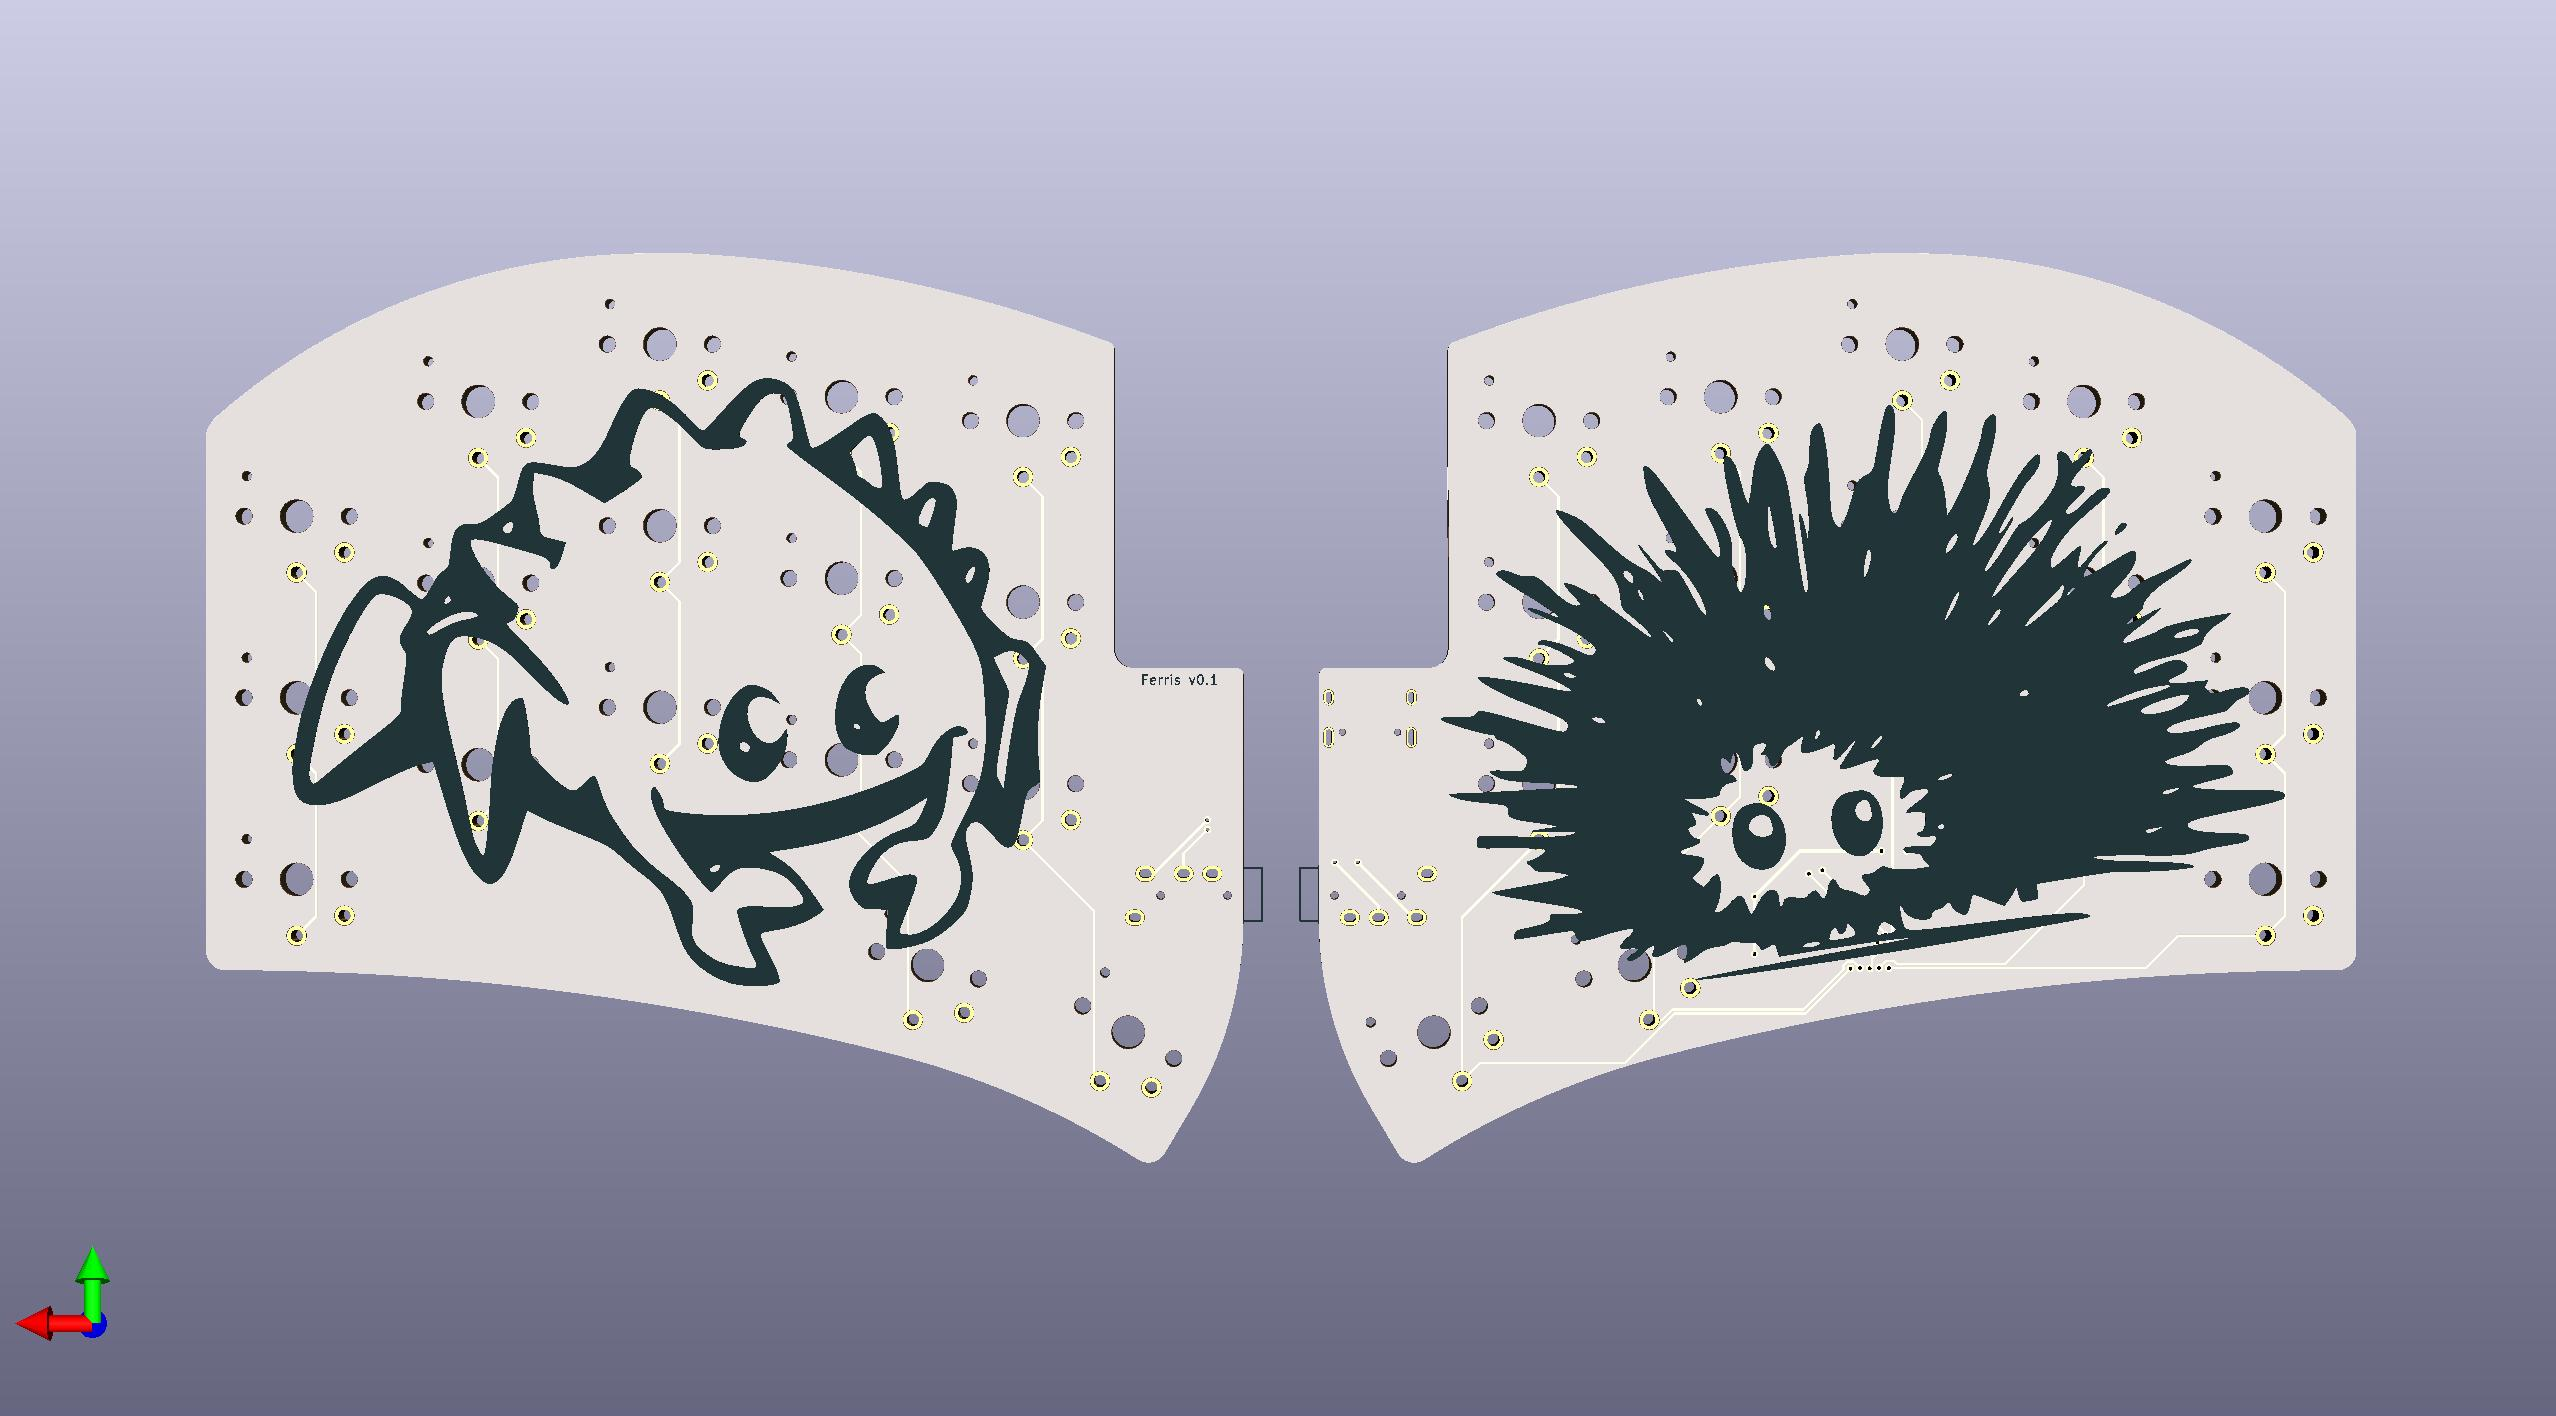
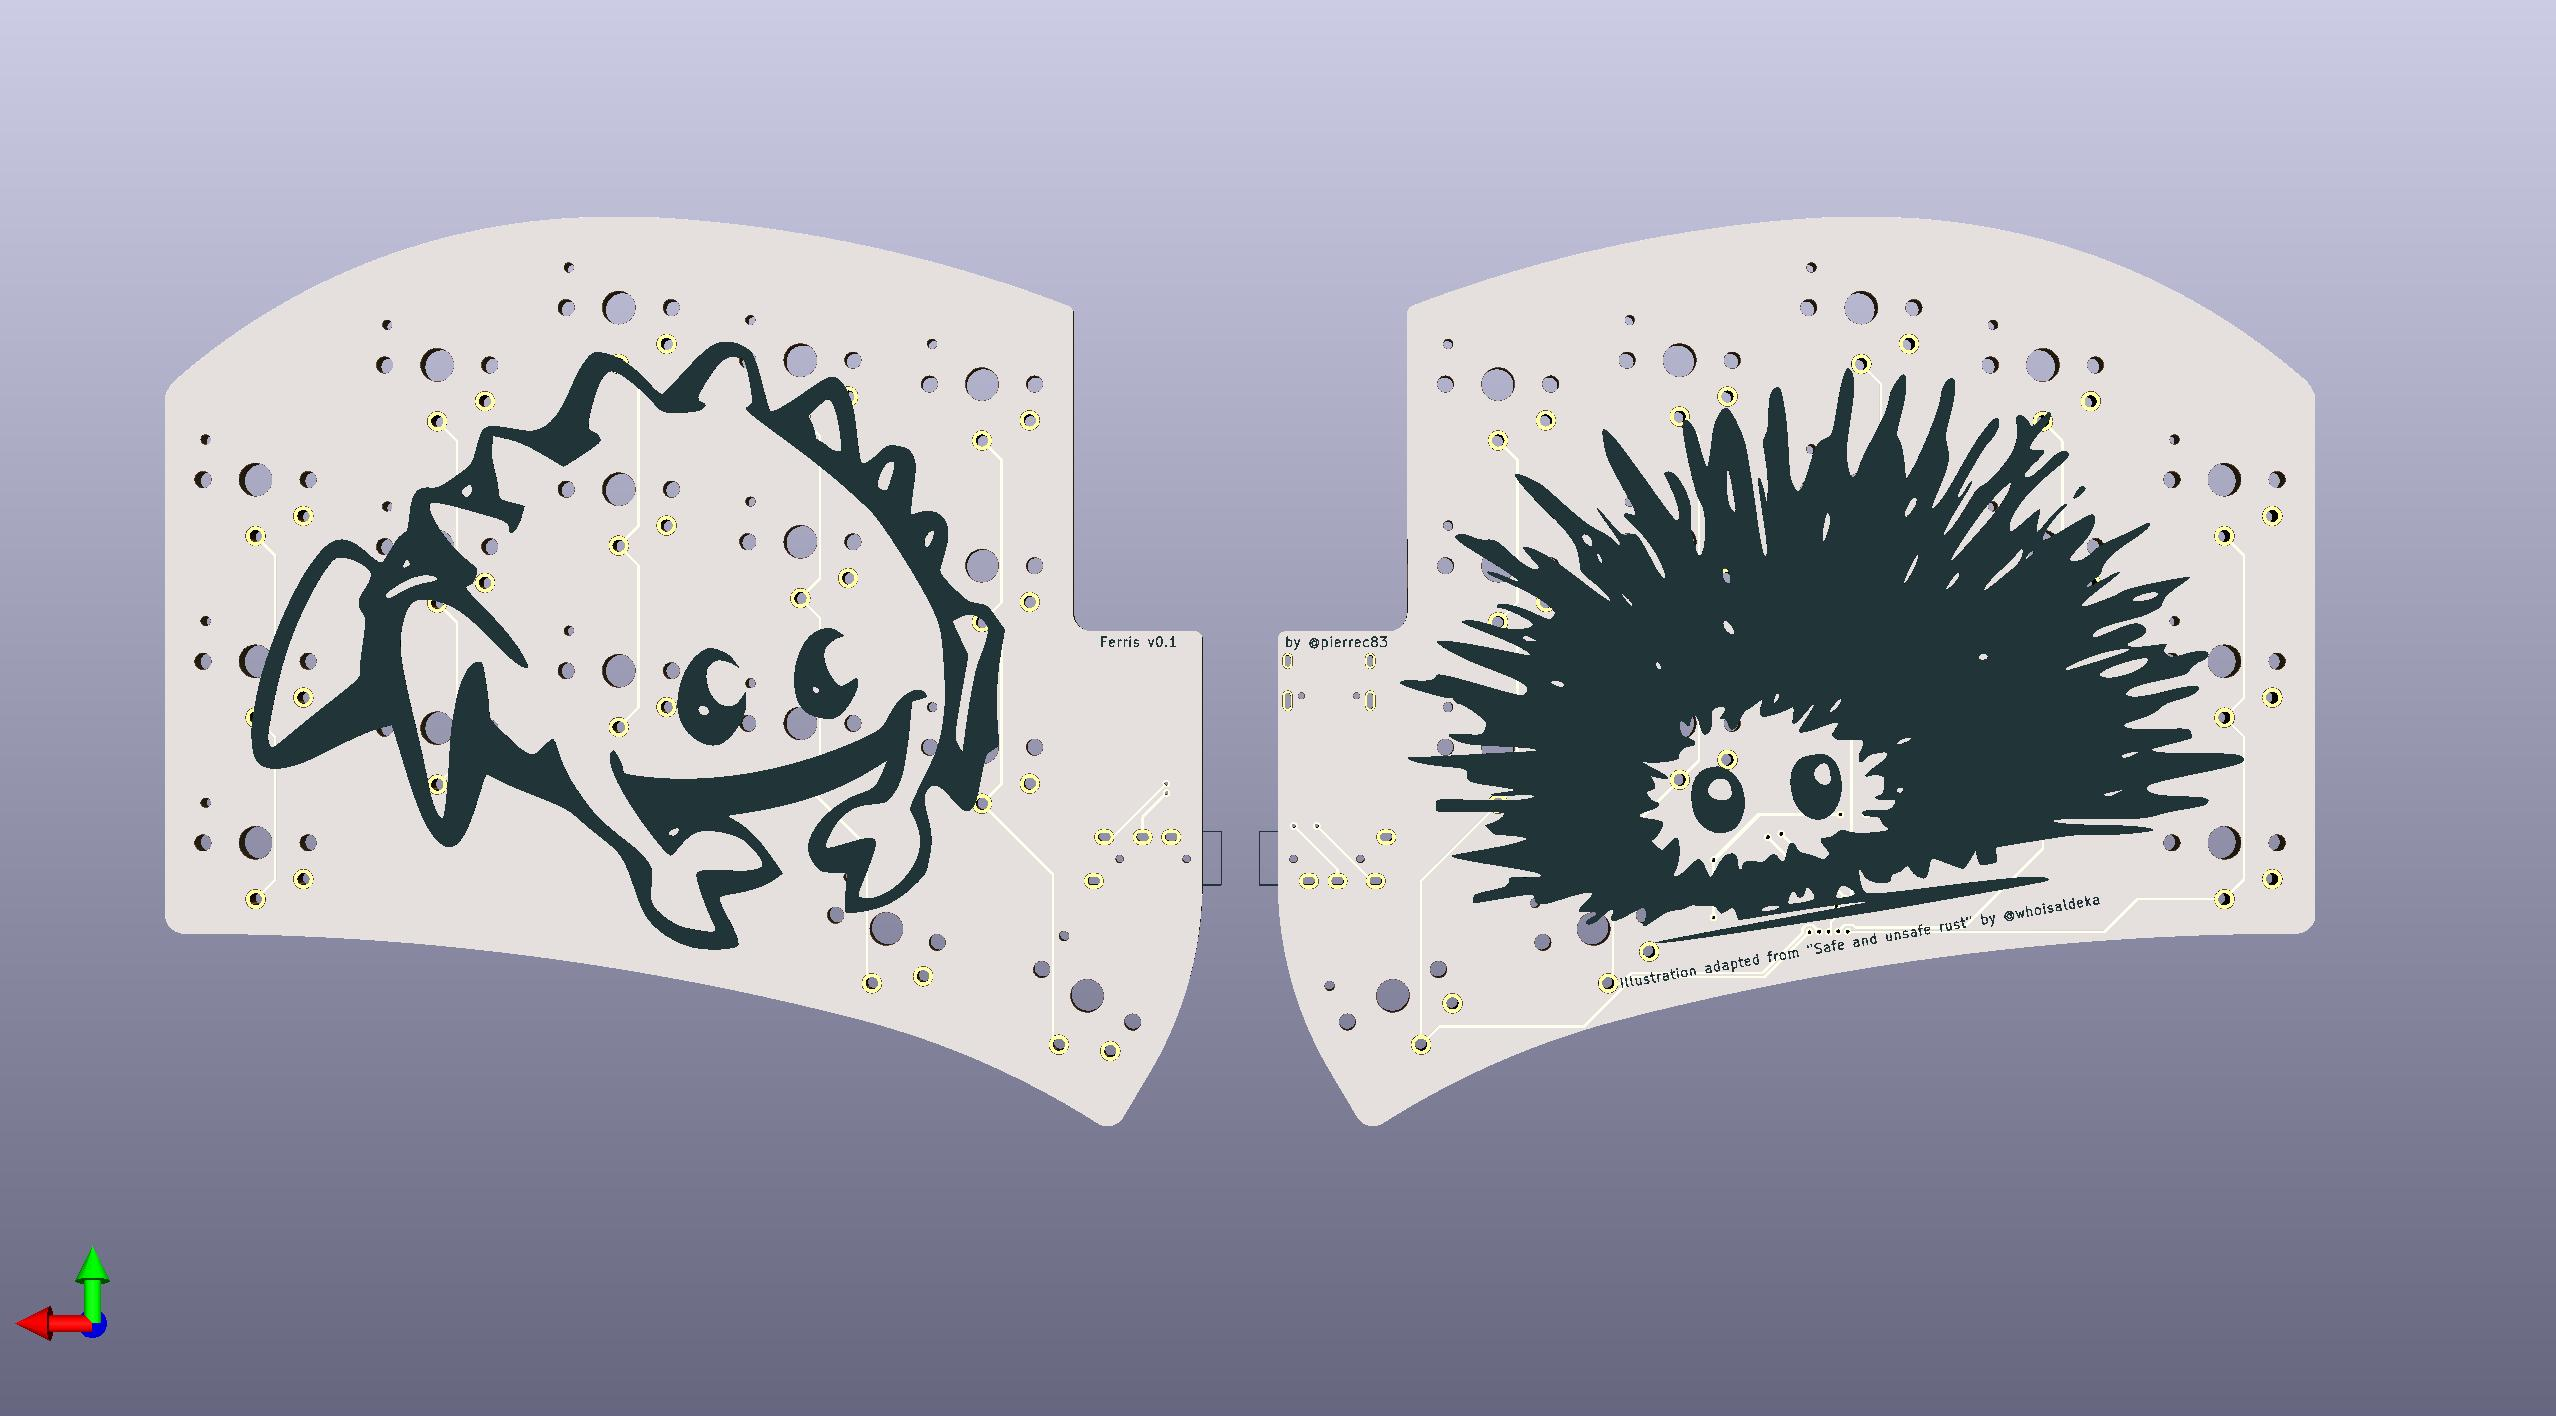
Add proper attributions for @whoisaldeka's work with the illustrations

Changed region(s): [[0.0618, 0.1554, 0.9272, 0.839], [0.8654, 0.2175, 0.8963, 0.2486]]

diff --git a/readme.md b/readme.md
@@ -50,6 +50,7 @@ The lines are few and clean. The traces are carefully routed with the intent to 
 All the components are top-mounted for eye candy and a ferris the crab logo decorates the right hand board.
 The SOD-123 diodes are tiny and live under switches in the spot that is usually reserved for the per-key backlights. This means that they are not visible once assembled.
 The back is really bare, without any components or text. Only a few traces and the solder joints for the switches, TRRS jacks and the USB C connector should show. The intention is to only add a few fabric pads on the bottom side to be used as feet and protect the desk's surface from solder joints.
+The silkscreen on the underside of the pcb is decorated with [the nice illustrations from @whoisaldeka on Twitter representing safe and unsafe rust](https://twitter.com/whoisaldeka/status/674465785557860353) that is licensed under CC-BY. The design was adapted for use on a PCB.
 
 Portability:
 ------------
